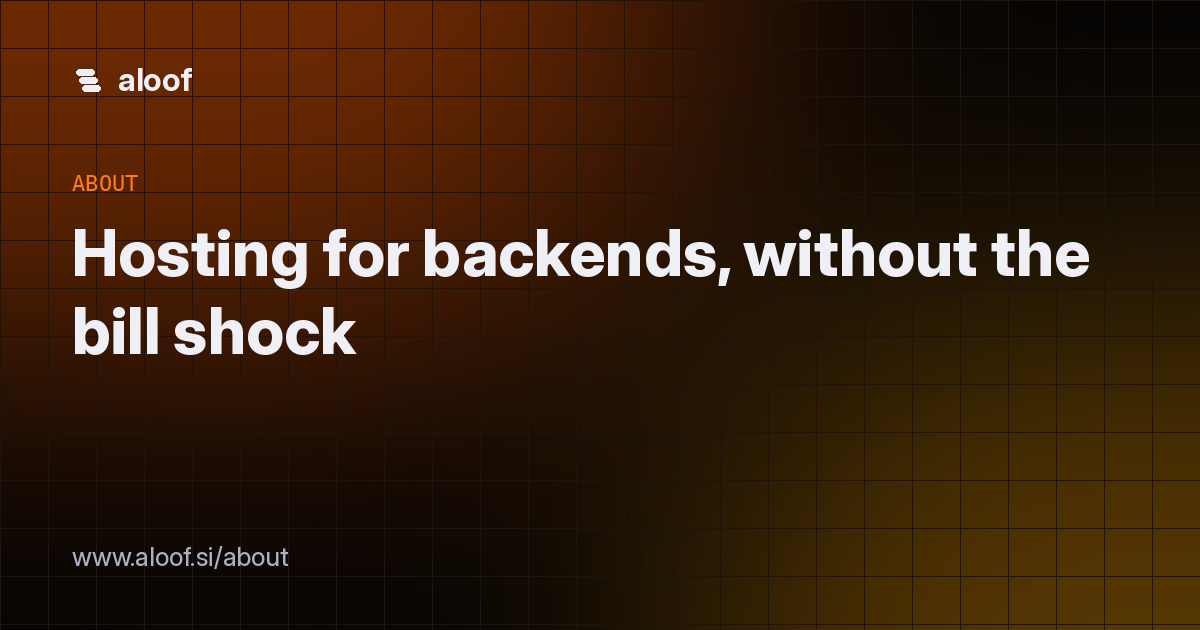
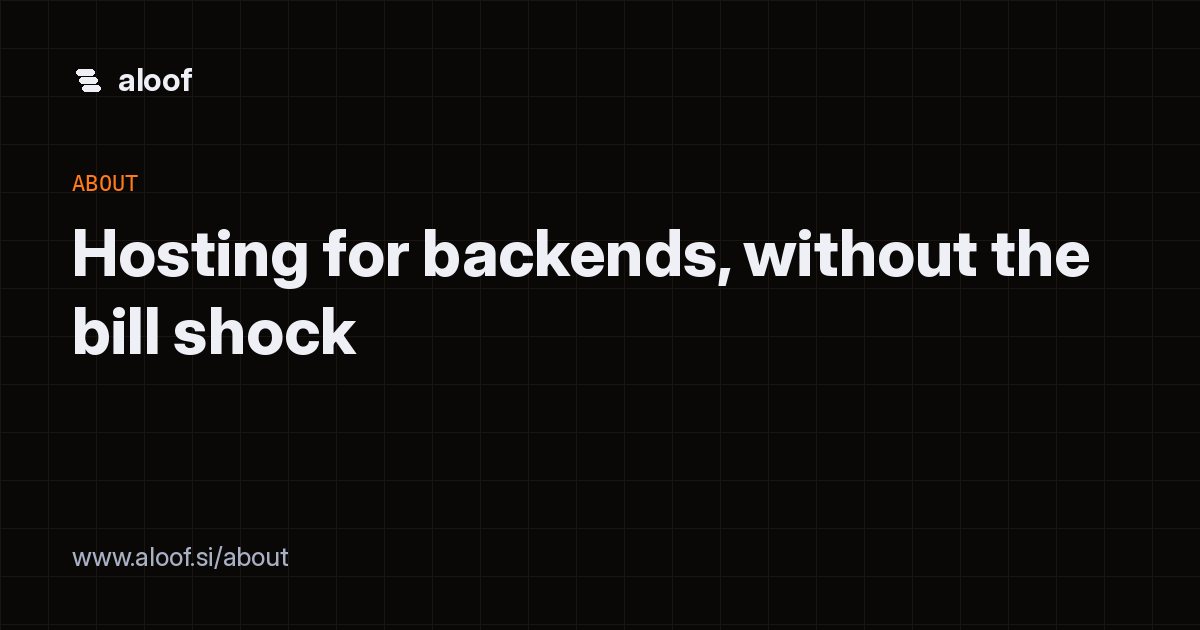
copy: plainer voice across site and console (drop 'honestly/stated plainly/no badges we haven't earned/stays boring/clearly labeled', symmetric section slogans -> plain headings, unfounded 'popular'/'most popular' badges, welcome emoji); remove decorative hero gradient blobs and OG glow; css v=12

diff --git a/dashboard/index.html b/dashboard/index.html
@@ -1,5 +1,5 @@
 <!doctype html><html lang=en><head><meta charset="utf-8"><meta name=viewport content="width=device-width,initial-scale=1"><title>Dashboard · {{BRAND}}</title><meta name=description content="Manage your {{BRAND}} apps, volumes, Postgres, API keys and billing."><meta name=robots content="noindex, nofollow">
-<link rel=icon href="/favicon.ico?v=3" sizes="32x32"><link rel=icon href="/icon.svg?v=3" type="image/svg+xml"><link rel=icon type="image/png" sizes="32x32" href="/favicon-32x32.png?v=3"><link rel=icon type="image/png" sizes="16x16" href="/favicon-16x16.png?v=3"><link rel=apple-touch-icon href="/apple-touch-icon.png?v=3"><link rel=manifest href="/site.webmanifest?v=3"><link rel=stylesheet href="/static/aloof.css?v=11">
+<link rel=icon href="/favicon.ico?v=3" sizes="32x32"><link rel=icon href="/icon.svg?v=3" type="image/svg+xml"><link rel=icon type="image/png" sizes="32x32" href="/favicon-32x32.png?v=3"><link rel=icon type="image/png" sizes="16x16" href="/favicon-16x16.png?v=3"><link rel=apple-touch-icon href="/apple-touch-icon.png?v=3"><link rel=manifest href="/site.webmanifest?v=3"><link rel=stylesheet href="/static/aloof.css?v=12">
 <script>(function(){var t=localStorage.getItem('theme');if(t)document.documentElement.dataset.theme=t})();function setTheme(n){var d=document.documentElement;d.dataset.theme=n;localStorage.setItem('theme',n);document.querySelectorAll('.seg [data-th]').forEach(function(b){b.setAttribute('aria-pressed',b.dataset.th==n)})}function toggleTheme(){setTheme((document.documentElement.dataset.theme||'dark')=='dark'?'light':'dark')}</script></head><body>
 <div class=app><aside class=side aria-label="Dashboard navigation"><a class=logo href="/"><i></i>{{BRAND}}</a>
 <div class=grp>Project</div><a class="nav on" data-t=apps href="#" aria-current=page><svg viewBox="0 0 24 24" fill=none stroke=currentColor stroke-width=1.8 aria-hidden=true><rect x=3 y=3 width=7 height=7 rx=1.5 /><rect x=14 y=3 width=7 height=7 rx=1.5 /><rect x=3 y=14 width=7 height=7 rx=1.5 /><rect x=14 y=14 width=7 height=7 rx=1.5 /></svg>Apps</a>
@@ -178,7 +178,7 @@ function renderMonth(b){const m=b.month;$('tiersel').innerHTML=Object.entries(b.
 async function topup(){const v=+$('amt').value;if(BIL&&(v<BIL.topup_min_usd||v>BIL.topup_max_usd)){toast(`Top-ups must be between ${usd(BIL.topup_min_usd)} and ${usd(BIL.topup_max_usd)}`,1);return}const o=await api('POST','/v1/billing/checkout',{credit_usd:+$('amt').value});if(o.url)location.href=o.url}
 async function saveProfile(){await api('PUT','/v1/billing/profile',{billing_name:$('b_name').value||null,country:$('b_country').value||null,tax_id:$('b_tax').value||null});toast('saved');bill()}
 function showKey(k,welcome){const h=`<div class=keybox><b>Save your API key now.</b> It's shown only once and can't be recovered; rotate it if you lose it.<div class=row><code id=kv>${esc(k)}</code><button class="btn pri sm" onclick="navigator.clipboard.writeText($('kv').textContent).then(()=>{this.textContent='Copied';toast('API key copied')})">Copy</button></div></div><p class=muted style="font-size:13px">Use it for the CLI (<code>~/.aloof.json</code>) and MCP.</p>`;
- if(welcome)ask('',{title:'Welcome to Aloof 👋',ok:'I saved it',alert:1,html:'<p>You have starting credit to deploy your first app. Here is your API key:</p>'+h});else $('newkey').innerHTML=h}
+ if(welcome)ask('',{title:'Your account is ready',ok:'I saved it',alert:1,html:'<p>You have starting credit to deploy your first app. Here is your API key:</p>'+h});else $('newkey').innerHTML=h}
 const SNIP={curl:[o=>`curl ${o}/v1/apps \\\n  -H "Authorization: Bearer $ALOOF_API_KEY"`,'Any endpoint in the API reference works the same way.'],
  cli:[o=>`# environment variable (CI, scripts)\nexport ALOOF_API_URL=${o}\nexport ALOOF_API_KEY=pk_...        # or ALOOF_API_TOKEN=dt_...\n\n# or ~/.aloof.json (chmod 600)\n{"api": "${o}", "key": "pk_..."}`,'Download the CLI: curl -fsSL '+location.origin+'/cli/aloof -o aloof'],
  mcp:[o=>`{"mcpServers": {"aloof": {

diff --git a/dashboard/admin.html b/dashboard/admin.html
@@ -1,5 +1,5 @@
 <!doctype html><html lang=en><head><meta charset="utf-8"><meta name=viewport content="width=device-width,initial-scale=1"><meta name=robots content="noindex,nofollow"><title>Owner dashboard · Aloof</title>
-<link rel=icon href="/favicon.ico?v=3" sizes="32x32"><link rel=icon href="/icon.svg?v=3" type="image/svg+xml"><link rel=icon type="image/png" sizes="32x32" href="/favicon-32x32.png?v=3"><link rel=icon type="image/png" sizes="16x16" href="/favicon-16x16.png?v=3"><link rel=apple-touch-icon href="/apple-touch-icon.png?v=3"><link rel=manifest href="/site.webmanifest?v=3"><link rel=stylesheet href="/static/aloof.css?v=11">
+<link rel=icon href="/favicon.ico?v=3" sizes="32x32"><link rel=icon href="/icon.svg?v=3" type="image/svg+xml"><link rel=icon type="image/png" sizes="32x32" href="/favicon-32x32.png?v=3"><link rel=icon type="image/png" sizes="16x16" href="/favicon-16x16.png?v=3"><link rel=apple-touch-icon href="/apple-touch-icon.png?v=3"><link rel=manifest href="/site.webmanifest?v=3"><link rel=stylesheet href="/static/aloof.css?v=12">
 <script>(function(){var t=localStorage.getItem('theme');if(t)document.documentElement.dataset.theme=t})();function toggleTheme(){var d=document.documentElement,c=d.dataset.theme||'dark',n=c=='dark'?'light':'dark';d.dataset.theme=n;localStorage.setItem('theme',n)}</script>
 <style>
 .adm{padding:28px 0 64px}.adm h1{font-size:28px;letter-spacing:-.025em;margin:0}.adm h2{font-size:15px;letter-spacing:.02em;margin:34px 0 12px;color:var(--fg2);text-transform:uppercase;font-family:var(--mono)}

diff --git a/paas/static/aloof.css b/paas/static/aloof.css
@@ -222,3 +222,4 @@ a.logo i{width:28px;height:28px;flex:none}
 .abar a.logo{color:#f6f1ec!important;font-size:19px}.abar a.logo i{width:26px;height:26px}
 @media(max-width:640px){a.logo,.top a.logo{font-size:19px;gap:9px}a.logo i{width:26px;height:26px}}
 .tbl{color:var(--fg)}.tbl td b,.tbl td a b{color:var(--fg)}
+.hero:before{display:none}

diff --git a/paas/site.py b/paas/site.py
@@ -38,7 +38,7 @@ def head(title, desc):
 <meta property="og:type" content="{CUR['type']}"><meta property="og:site_name" content="Aloof"><meta property="og:title" content="{t}"><meta property="og:description" content="{d}"><meta property="og:url" content="{u}"><meta property="og:image" content="{og}"><meta property="og:image:width" content="1200"><meta property="og:image:height" content="630">
 <meta name="twitter:card" content="summary_large_image"><meta name="twitter:title" content="{t}"><meta name="twitter:description" content="{d}"><meta name="twitter:image" content="{og}">
 <link rel=alternate type="application/rss+xml" title="Aloof blog" href="/rss.xml">
-<link rel=icon href="/favicon.ico?v=3" sizes="32x32"><link rel=icon href="/icon.svg?v=3" type="image/svg+xml"><link rel=icon type="image/png" sizes="32x32" href="/favicon-32x32.png?v=3"><link rel=icon type="image/png" sizes="16x16" href="/favicon-16x16.png?v=3"><link rel=apple-touch-icon href="/apple-touch-icon.png?v=3"><link rel=manifest href="/site.webmanifest?v=3"><link rel=stylesheet href="/static/aloof.css?v=11">{THEME_JS}</head>"""
+<link rel=icon href="/favicon.ico?v=3" sizes="32x32"><link rel=icon href="/icon.svg?v=3" type="image/svg+xml"><link rel=icon type="image/png" sizes="32x32" href="/favicon-32x32.png?v=3"><link rel=icon type="image/png" sizes="16x16" href="/favicon-16x16.png?v=3"><link rel=apple-touch-icon href="/apple-touch-icon.png?v=3"><link rel=manifest href="/site.webmanifest?v=3"><link rel=stylesheet href="/static/aloof.css?v=12">{THEME_JS}</head>"""
 def nav(brand):
     return f"""<a class=skip href="#main">Skip to content</a><header class=top><div class=wrap><a class=logo href="/" aria-label="{brand} home"><i></i>{brand}</a>
 <nav class=navlinks id=nl aria-label=Primary><a href="/#features">Product</a><a href="/pricing">Pricing</a><a href="/docs">Docs</a><a href="/guides">Guides</a><a href="/blog">Blog</a></nav>
@@ -106,7 +106,7 @@ def landing(brand, base, api, mcp):
     gpu_card = (f"<div class=card><h3>GPUs by the second</h3><p>L4 ${g['gpu-l4']:.2f}/hr, A100 80GB ${g['gpu-a100']:.2f}/hr, H100 ${g['gpu-h100']:.2f}/hr on dedicated nodes.</p></div>"
                 if _plans.GPU_ENABLED else _feat("bolt", "GPUs: coming soon", "L4, RTX 4090, L40, A100 80GB and H100, billed per second with scale to zero. <a href='/pricing#gpus'>Join the waitlist →</a>"))
     cpu = [k for k, p in PLANS.items() if p["kind"] == "cpu" and not p["legacy"] and p["cpu_class"] == "shared"]
-    pcards = "".join(f"<div class='card reveal{' hl' if k == 'shared-1x-1gb' else ''}'>{'<span class=tag>popular</span>' if k == 'shared-1x-1gb' else ''}<h3><code>{k}</code></h3><div class=price>{_money(PLANS[k]['price_usd_month'])}<small>/mo</small></div><p>{PLANS[k]['vcpu']:g} shared vCPU · {_gb(PLANS[k]['memory_mb'])} GB RAM · per second</p></div>" for k in cpu[:4])
+    pcards = "".join(f"<div class='card reveal'><h3><code>{k}</code></h3><div class=price>{_money(PLANS[k]['price_usd_month'])}<small>/mo</small></div><p>{PLANS[k]['vcpu']:g} shared vCPU · {_gb(PLANS[k]['memory_mb'])} GB RAM · per second</p></div>" for k in cpu[:4])
     T = TIERS; p0 = PLANS["shared-1x-256mb"]["price_usd_month"]
     faq = [("Where does my code run?", "On Hetzner Cloud in Nuremberg, Germany. The control plane runs there too, and encrypted off-site backups are stored in Helsinki, Finland."),
            ("What can I deploy?", "Any Docker image, or a git repo with a Dockerfile. This covers Node.js, Python, Go, Rust, Ruby, Java/JVM, PHP and static sites."),
@@ -123,27 +123,27 @@ def landing(brand, base, api, mcp):
 <div class=trust><span>{svg("lock")} TLS on every app</span><span>{svg("key")} Secrets encrypted at rest</span><span>{svg("eu")} EU hosting</span><span>{svg("bolt")} Per-second billing in USD</span></div></div>
 {_term(base)}</div></section>
 <div class=wrap><div class=works aria-label="Works with">{stack_row()}</div></div>
-<section class=s id=features><div class=wrap><div class=eyebrow>Platform</div><h2 class=t>Everything a backend needs. Nothing you have to&nbsp;babysit.</h2>
+<section class=s id=features><div class=wrap><div class=eyebrow>Platform</div><h2 class=t>What's built in</h2>
 <div class="grid g3">{_feat("git", "Deploy from git or an image", "Push a repo with a Dockerfile or point at any image: Node.js, Python, Go, Rust, Ruby, Java/JVM, PHP or static sites. Redeploys only switch over after the new instance passes its health check.")}
 {_feat("scale", "Pay nothing while it's idle", "Scale on in-flight requests or CPU. Idle apps sleep and wake on the next request in about a second.")}
 {_feat("disk", "State that survives", "Persistent volumes survive restarts and redeploys, billed per provisioned GB-month.")}
 {_feat("globe", "Your domain, with TLS handled", "Add one TXT record and a CNAME. We issue and renew certificates for you.")}
 {_feat("bot", "Let your AI assistant run deploys", "A remote MCP server with OAuth 2.1 lets Claude, ChatGPT or Cursor deploy, read logs, scale and add domains. You get scoped tokens you can revoke at any time, plus <a href='/llms.txt'>llms.txt</a> and an OpenAPI spec.")}
 {gpu_card}</div></div></section>
-<section class=s id=how><div class=wrap><div class=eyebrow>How it works</div><h2 class=t>From code to a live URL in three steps.</h2>
+<section class=s id=how><div class=wrap><div class=eyebrow>How it works</div><h2 class=t>How a deploy works</h2>
 <div class="grid g3"><div class="card reveal"><div class=ico>1</div><h3>Bring your code.</h3><p>Use a git repo with a Dockerfile or any container image.</p></div>
 <div class="card reveal"><div class=ico>2</div><h3>Deploy.</h3><p>Run one CLI command, use the dashboard or REST API, or ask your assistant over MCP.</p></div>
 <div class="card reveal"><div class=ico>3</div><h3>Go live.</h3><p>You get an HTTPS URL on <code>.{base}</code> (or your own domain), autoscaling and logs, billed per second.</p></div></div></div></section>
-<section class=s id=security><div class=wrap><div class=eyebrow>Security</div><h2 class=t>Secure defaults, stated plainly.</h2><p class=t>We list only what the platform actually does today. No badges we haven't earned.</p>
+<section class=s id=security><div class=wrap><div class=eyebrow>Security</div><h2 class=t>Security defaults</h2><p class=t>What the platform does today. We hold no certifications yet.</p>
 <div class="grid g3">{_feat("lock", "TLS everywhere", "Every app, API and MCP endpoint is served over HTTPS with automatically issued certificates. Certificates are only requested for hosts we know.")}
 {_feat("key", "Encrypted secrets", "Environment variables are encrypted at rest and never shown back. API keys are stored only as SHA-256 hashes.")}
 {_feat("box", "Isolated containers", "Each app runs in its own container with CPU and memory limits. Nodes join over WireGuard and expose no inbound ports.")}</div>
 <p class=muted style="margin-top:22px">Read more on the <a href="/security">security page</a>. Found an issue? Email <a href="mailto:security@aloof.si">security@aloof.si</a>.</p></div></section>
-<section class=s id=pricing><div class=wrap><div class=eyebrow>Pricing</div><h2 class=t>Per-second pricing that stays boring.</h2>
+<section class=s id=pricing><div class=wrap><div class=eyebrow>Pricing</div><h2 class=t>Pricing</h2>
 <div class="grid g3">{tier("free", "Free", "Good for side projects and trying Aloof.")}{tier("hobby", "Hobby", "For personal apps that need to stay on.")}{tier("pro", "Pro", "For teams shipping production backends.")}</div>
 <p class=t style="margin-top:20px">Usage beyond that is billed per second. Instance sizes start at <code>shared-1x-256mb</code> ({_money(p0)}/mo if run all month). Prices are in USD and exclude tax. Payments are handled by Stripe.</p>
 <div class="grid">{pcards}</div><p style="margin-top:20px"><a href="/pricing">Performance CPUs, volumes, egress and tiers →</a></p></div></section>
-<section class=s id=faq><div class=wrap style="max-width:820px"><div class=eyebrow>FAQ</div><h2 class=t>Questions, answered.</h2>{faqh}</div></section>
+<section class=s id=faq><div class=wrap style="max-width:820px"><div class=eyebrow>FAQ</div><h2 class=t>FAQ</h2>{faqh}</div></section>
 <section class=ctaband><h2>Stop babysitting servers.</h2><p class=sub style="margin:0 0 26px">Deploy your first backend free in one command.</p><div class=cta style="justify-content:center"><a class="btn pri" href="/login#register">Deploy free</a><a class="btn ghost" href="/docs">Read the docs</a></div></section>"""
     return page(f"{brand}: infrastructure for the age of superintelligence", body, brand)
 def _pg_rows():
@@ -153,7 +153,7 @@ def pricing(brand):
     T = TIERS
     def tier(k, name, blurb, hl=False):
         t = T[k]; fee = f"${t['fee_usd']:g}"
-        return (f"<div class='card{' hl' if hl else ''}'>{'<span class=tag>most popular</span>' if hl else ''}<h3 style='font-size:18px'>{name}</h3><div class=price>{fee}<small>/month{' per workspace' if k == 'pro' else ''}</small></div><p>{blurb}</p><ul>"
+        return (f"<div class='card{' hl' if hl else ''}'><h3 style='font-size:18px'>{name}</h3><div class=price>{fee}<small>/month{' per workspace' if k == 'pro' else ''}</small></div><p>{blurb}</p><ul>"
                 f"<li>${t['included_usage_usd']:g} of usage included</li>"
                 f"<li>{'Unlimited seats' if not t['seats'] else '1 seat'} · {'unlimited apps' if not t['max_apps'] else str(t['max_apps']) + ' apps'}</li></ul>"
                 f"<p class=muted style='font-size:13px'>{t['compare']}</p><p style='margin-top:14px'><a class='btn {'pri' if hl else 'ghost'} sm' href='/login#register'>Get started</a></p></div>")

diff --git a/paas/www_blog.py b/paas/www_blog.py
@@ -18,7 +18,7 @@ detected: fastapi
 wrote Dockerfile
 wrote aloof.toml
 wrote .dockerignore</pre>
-<p>The generated Dockerfile is deliberately boring: <code>python:3.12-slim</code>, <code>pip install -r requirements.txt</code>, and <code>uvicorn main:app --host 0.0.0.0 --port $PORT</code>. Aloof injects <code>PORT</code> (8080 by default), so the same image runs locally and on the platform. If you already have a Dockerfile, <code>launch</code> leaves it alone.</p>
+<p>The generated Dockerfile is minimal: <code>python:3.12-slim</code>, <code>pip install -r requirements.txt</code>, and <code>uvicorn main:app --host 0.0.0.0 --port $PORT</code>. Aloof injects <code>PORT</code> (8080 by default), so the same image runs locally and on the platform. If you already have a Dockerfile, <code>launch</code> leaves it alone.</p>
 <h2>2. Add a database</h2><pre>$ aloof pg create notes-db --plan pg-dev
 $ aloof pg attach notes-db notes-api      # injects DATABASE_URL, joins the private network</pre>
 <p><code>pg-dev</code> is {_m(PG_PLANS['pg-dev']['price_usd_month'])}/month. The database never gets a public port: the app reaches it over a private Docker network, and <code>DATABASE_URL</code> is stored encrypted with the app's other secrets. Daily logical backups are kept on the host, and encrypted copies go off-site (see <a href="/blog/postgres-offsite-backups">the backups post</a>).</p>
@@ -125,7 +125,7 @@ $ aloof rollback api 6</pre>
 $ aloof pg offsite-restore mydb pg_20261013082102_065225</pre>
 <p>The same works for volumes (<code>aloof snapshots offsite-restore</code>), through the API and MCP, and from the dashboard.</p>
 <h2>Limits</h2><p>These are logical backups. There's no point-in-time recovery or streaming replica yet, so the recovery point is your newest dump. Take an on-demand backup before risky migrations.</p>"""},
-{"slug": "aloof-vs-fly-render-railway", "title": "Aloof vs Fly.io, Render and Railway: an honest comparison", "date": "2026-10-13", "tags": ["comparison"],
+{"slug": "aloof-vs-fly-render-railway", "title": "Aloof vs Fly.io, Render and Railway: how they compare", "date": "2026-10-13", "tags": ["comparison"],
  "summary": "Where Aloof is cheaper or simpler, and where Fly.io, Render or Railway are clearly the better choice today.",
  "html": f"""<p>We built Aloof to be a cheaper, simpler home for backends. "Cheaper" is easy to claim, so here are the numbers, and also the places where the alternatives are better.</p>
 <h2>Price</h2><p>Always-on monthly prices for comparable instances. Competitor figures are their public list prices as we recorded them; check their sites for current numbers. A dash means no direct equivalent.</p>
@@ -133,5 +133,5 @@ $ aloof pg offsite-restore mydb pg_20261013082102_065225</pre>
 <p class=muted>*Railway bills by resource usage; we show the cost of the equivalent resources running 24/7.</p>
 <h2>Where Aloof is a good fit</h2><ul><li>Backends, APIs, workers and side projects whose users are in or near Europe.</li><li>Fly-style workflows (<code>aloof.toml</code>, <code>launch</code>, <code>secrets</code>, process groups, release commands, previews) at a lower price.</li><li>AI-agent-driven operations through a first-party MCP server.</li><li>Teams that want encrypted off-site backups and an audit log without assembling them.</li></ul>
 <h2>Where the others are better today</h2><ul><li><b>Global footprint</b>: Fly.io runs in dozens of regions with anycast. Aloof runs in one region (Nuremberg, Germany). Users in Asia or the Americas will see higher latency.</li><li><b>Compliance</b>: Fly.io, Render and Railway publish SOC 2 reports. Aloof holds no certifications.</li><li><b>Teams</b>: all three have organisations with roles. Aloof has single-user accounts plus scoped deploy tokens.</li><li><b>Managed data</b>: Postgres HA and point-in-time recovery, managed Redis/Key-Value, and private services across regions are more mature elsewhere.</li><li><b>Track record</b>: Aloof is new. The others have years of production history.</li><li><b>Raw TCP/UDP</b>: Fly.io exposes arbitrary public ports. Aloof serves HTTP/HTTPS only.</li></ul>
-<h2>The honest summary</h2><p>If your users are in Europe and you want Fly-like ergonomics with per-second billing at or below list prices, Aloof is worth a try; the free tier is hard-capped at $1, so it costs nothing to test. If you need multiple regions, compliance reports or org-level RBAC today, use one of the others. Where we run today is on the <a href="/regions">regions page</a>.</p>"""},
+<h2>Summary</h2><p>If your users are in Europe and you want Fly-like ergonomics with per-second billing at or below list prices, Aloof is worth a try; the free tier is hard-capped at $1, so it costs nothing to test. If you need multiple regions, compliance reports or org-level RBAC today, use one of the others. Where we run today is on the <a href="/regions">regions page</a>.</p>"""},
 ]

diff --git a/paas/www.py b/paas/www.py
@@ -75,7 +75,7 @@ def customers():
     inner = f"""<p class=muted style="margin:0 0 22px">These are reference architectures we built and tested ourselves. They're not customer stories, and no company names, logos or metrics are implied.</p>
 <div class='grid g3'>{cards}</div><div id=partner style="margin-top:56px">{PARTNER_FORM}</div>"""
     return render("/customers", "Example architectures · Aloof", "Reference architectures on Aloof: SaaS API with worker, Next.js with private API, scale-to-zero webhooks, MCP-operated backends.",
-                  shell("Example architectures", "What you can build on Aloof", "Clearly labeled reference builds, each with the plans and features it uses.", inner), og="customers")
+                  shell("Example architectures", "What you can build on Aloof", "Reference builds we tested ourselves, with the plans and features each one uses.", inner), og="customers")
 # ---------------- regions ----------------
 @R.get("/regions", response_class=HTMLResponse)
 def regions():
@@ -89,11 +89,11 @@ def regions():
 <h3>Region waitlist</h3><div class=fgrid><input name=email type=email required placeholder="you@company.com" aria-label=Email><select name=region aria-label=Region>{opts}</select></div><button class="btn pri">Join waitlist</button><p id=rwmsg role=status aria-live=polite></p></form>
 <script>function wl(c){{rw.region.value=c;rw.scrollIntoView({{behavior:'smooth',block:'center'}});rw.email.focus()}}</script>"""
     return render("/regions", "Regions · Aloof", "Aloof runs compute in Nuremberg, Germany, with encrypted off-site backups in Helsinki, Finland. Planned regions and waitlist.",
-                  shell("Regions", "Where your apps run", "One live compute region today: Nuremberg, Germany. We list other regions only as coming soon, never as available.", inner), og="regions")
+                  shell("Regions", "Where your apps run", "One live compute region today: Nuremberg, Germany. Other regions below are planned, not available.", inner), og="regions")
 @R.get("/about", response_class=HTMLResponse)
 def about(): return render("/about", "About · Aloof", "Aloof is a small, independent hosting platform for backends, APIs and workers.", shell("About", "Hosting for backends, without the bill shock", "What we are, what we aren't, and how we make money.", f"<div class=prose>{ABOUT}</div>", narrow=True), og="about")
 @R.get("/security", response_class=HTMLResponse)
-def security(): return render("/security", "Security · Aloof", "What Aloof does today for transport, secrets, isolation, access, backups and disclosure. No certifications claimed.", shell("Security", "Security, stated plainly", "Only what the platform does today. Gaps are listed too.", f"<div class=prose>{SECURITY}</div>", narrow=True), og="security")
+def security(): return render("/security", "Security · Aloof", "What Aloof does today for transport, secrets, isolation, access, backups and disclosure. No certifications claimed.", shell("Security", "Security at Aloof", "What the platform does today, and what it doesn't do yet.", f"<div class=prose>{SECURITY}</div>", narrow=True), og="security")
 # ---------------- status: server-side probes ----------------
 def _targets():
     from . import api

diff --git a/paas/www_content.py b/paas/www_content.py
@@ -79,7 +79,7 @@ SOON_REGIONS = [("eu-fsn", "Falkenstein, Germany", "Hetzner Cloud", "Second Germ
 
 ABOUT = """<p>Aloof is a small, independent hosting platform for backends, APIs and workers. You bring a Docker image, a git repo or a local directory; we run it, bill it per second, and put it to sleep when it's idle.</p>
 <h2>Why we built it</h2><p>Running a side project or a small production API shouldn't cost $20+ a month per service, and it shouldn't take a week of YAML. Fly.io got the developer experience right; we wanted that experience, the same config model, and prices at or below list, with sensible defaults like scale-to-zero, encrypted off-site backups and an audit log built in.</p>
-<h2>What we are, honestly</h2><ul><li><b>New.</b> First release in October 2026.</li><li><b>One region.</b> Compute runs in Nuremberg, Germany. Others are on the <a href="/regions">regions page</a>, clearly marked as not live.</li><li><b>No certifications.</b> We don't hold SOC 2 or ISO 27001. The <a href="/security">security page</a> lists what the platform actually does.</li><li><b>Agent-native.</b> Every feature is available over a REST API, a single-file CLI and an MCP server, so AI assistants can operate it safely.</li></ul>
+<h2>Where we are today</h2><ul><li><b>New.</b> First release in October 2026.</li><li><b>One region.</b> Compute runs in Nuremberg, Germany. Others are on the <a href="/regions">regions page</a>, marked as not live.</li><li><b>No certifications.</b> We don't hold SOC 2 or ISO 27001. The <a href="/security">security page</a> lists what the platform actually does.</li><li><b>Agent-native.</b> Every feature is available over a REST API, a single-file CLI and an MCP server, so AI assistants can operate it safely.</li></ul>
 <h2>How we make money</h2><p>Usage-based compute, storage and egress, plus optional Hobby and Pro plans. Every price carries a margin over our real infrastructure cost, so the free tier can be hard-capped instead of subsidised by surprise bills.</p>
 <h2>Contact</h2><p>General: <a href="mailto:hello@aloof.si">hello@aloof.si</a> · Security: <a href="mailto:security@aloof.si">security@aloof.si</a> · Design partners: <a href="/customers#partner">apply here</a>.</p>"""
 

diff --git a/paas/api.py b/paas/api.py
@@ -529,7 +529,7 @@ def api_docs():
     return f"""<!doctype html><html lang=en><head><meta charset=utf-8><meta name=viewport content="width=device-width,initial-scale=1"><title>API reference · {BRAND}</title>
 <meta name=description content="Interactive reference for the {BRAND} REST API: apps, deploys, volumes, Postgres, domains, billing and keys. Authenticate with Authorization: Bearer.">
 <link rel=icon href="/favicon.ico?v=3" sizes="32x32"><link rel=icon href="/icon.svg?v=3" type="image/svg+xml"><link rel=icon type="image/png" sizes="32x32" href="/favicon-32x32.png?v=3"><link rel=icon type="image/png" sizes="16x16" href="/favicon-16x16.png?v=3"><link rel=apple-touch-icon href="/apple-touch-icon.png?v=3">
-<link rel=stylesheet href="/static/swagger/swagger-ui.css?v={SWAGGER_V}" integrity="{SWAGGER_SRI['css']}" crossorigin=anonymous><link rel=stylesheet href="/static/aloof.css?v=11">
+<link rel=stylesheet href="/static/swagger/swagger-ui.css?v={SWAGGER_V}" integrity="{SWAGGER_SRI['css']}" crossorigin=anonymous><link rel=stylesheet href="/static/aloof.css?v=12">
 <style>body{{margin:0;background:#fff}}.topbar{{display:none}}.abar{{display:flex;align-items:center;gap:14px;padding:14px 24px;background:#0a0807;color:#f6f1ec}}.abar .logo{{color:#f6f1ec!important}}.abar a{{color:#a9b0c3}}.abar .sp{{flex:1}}</style></head>
 <body><div class=abar><a class=logo href="/"><i></i>{BRAND}</a><span style="color:#998b7e">API reference</span><span class=sp></span><a href="/docs/api">Guide</a><a href="/dashboard">Dashboard</a></div><div id=swagger-ui></div>
 <script src="/static/swagger/swagger-ui-bundle.js?v={SWAGGER_V}" integrity="{SWAGGER_SRI['js']}" crossorigin=anonymous></script>

diff --git a/scripts/gen_og.py b/scripts/gen_og.py
@@ -11,8 +11,8 @@ def font(sz, w=700):
 def card(name, eyebrow, title, sub):
     W, H = 1200, 630; im = Image.new("RGB", (W, H), (10, 8, 7))
     glow = Image.new("RGB", (W, H), (0, 0, 0)); g = ImageDraw.Draw(glow)
-    g.ellipse((-200, -260, 700, 360), fill=(190, 70, 0)); g.ellipse((700, 300, 1400, 900), fill=(150, 95, 0))
-    im = Image.blend(im, glow.filter(ImageFilter.GaussianBlur(160)), 0.55); d = ImageDraw.Draw(im)
+    pass  # no decorative blobs
+    d = ImageDraw.Draw(im)
     for x in range(0, W, 48): d.line((x, 0, x, H), fill=(26, 21, 17))
     for y in range(0, H, 48): d.line((0, y, W, y), fill=(26, 21, 17))
     for x, y in ((4, 5), (7, 13.2), (10, 21.4)): d.rounded_rectangle((72 + x, 64 + y, 72 + x + 18, 64 + y + 5.6), 2.8, fill=(238, 240, 246))
